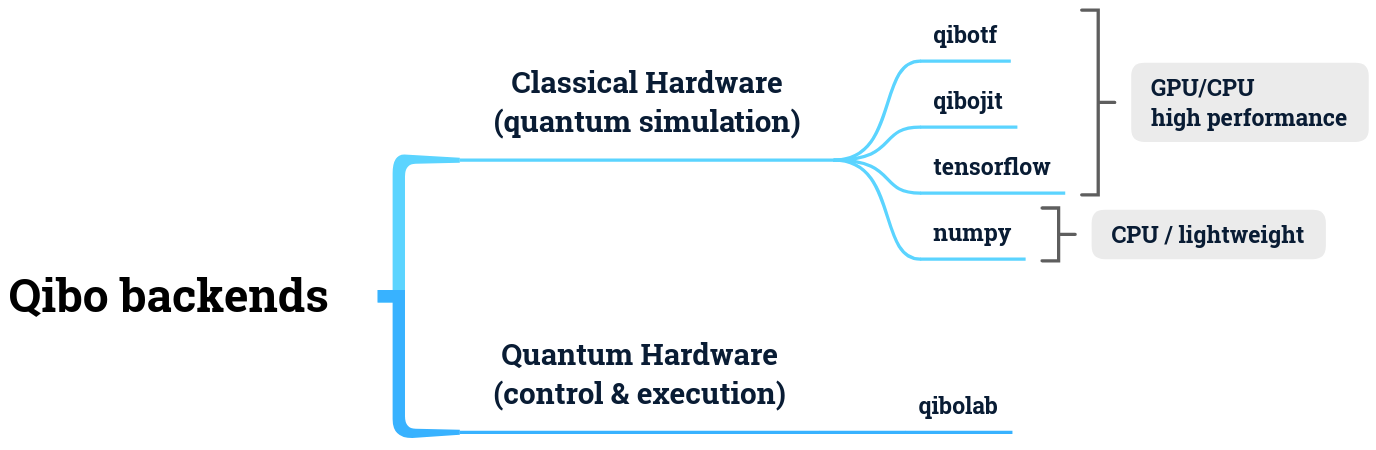
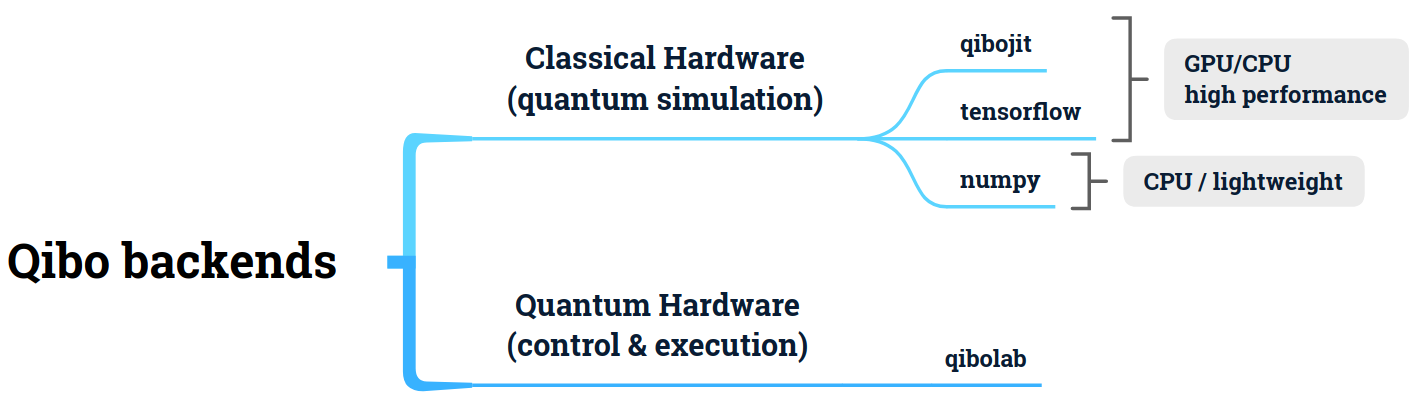
removing references to qibotf

diff --git a/src/qibo/backends/__init__.py b/src/qibo/backends/__init__.py
@@ -62,19 +62,18 @@ class Backend:
         # set default backend as active
         self.active_backend = self.construct_backend(default_backend)
 
-        # raise performance warning if qibojit and qibotf are not available
+        # raise performance warning if qibojit is not available
         self.show_config()
         if str(self) == "numpy":  # pragma: no cover
             log.warning("numpy backend uses `np.einsum` and supports CPU only. "
-                        "Consider installing the qibojit or qibotf backends for "
+                        "Consider installing the qibojit backend for "
                         "increased performance and to enable GPU acceleration.")
         elif str(self) == "tensorflow":  # pragma: no cover
             # case not tested because CI has tf installed
-            log.warning("qibotf library was not found. `tf.einsum` will be "
-                        "used to apply gates. In order to install Qibo's "
-                        "high performance custom operators for TensorFlow "
-                        "please use `pip install qibotf`. Alternatively, "
-                        "consider installing the qibojit backend.")
+            log.warning("tensorflow backend uses `tf.einsum` "
+                        "to apply gates. In order to install Qibo's "
+                        "high performance custom operators "
+                        "please use `pip install qibojit`.")
 
     @staticmethod
     def _get_backend_class(backend):
@@ -206,7 +205,6 @@ def set_backend(backend="qibojit", platform=None):
 
     The following backends are available:
     'qibojit': Numba/cupy backend with custom operators for applying gates,
-    'qibotf': Tensorflow backend with custom operators for applying gates,
     'tensorflow': Tensorflow backend that applies gates using ``tf.einsum``,
     'numpy': Numpy backend that applies gates using ``np.einsum``.
 

diff --git a/src/qibo/tests/conftest.py b/src/qibo/tests/conftest.py
@@ -32,7 +32,7 @@ def pytest_configure(config):
 
 def pytest_addoption(parser):
     parser.addoption("--backends", type=str, default=_BACKENDS,
-                     help="Calculation schemes (eg. qibojit, qibotf, tensorflow, numpy etc.) to test.")
+                     help="Calculation schemes (eg. qibojit, tensorflow, numpy etc.) to test.")
     parser.addoption("--accelerators", type=str, default=_ACCELERATORS,
                      help="Accelerator configurations for testing the distributed circuit.")
     # see `_ACCELERATORS` for the string format of the `--accelerators` flag
@@ -65,7 +65,7 @@ def pytest_generate_tests(metafunc):
 
     Test functions may have one or more of the following arguments:
         engine: Backend library (eg. numpy, tensorflow, etc.),
-        backend: Calculation backend (eg. qibojit, qibotf, tensorflow, numpy),
+        backend: Calculation backend (eg. qibojit, tensorflow, numpy),
         accelerators: Dictionary with the accelerator configuration for
             distributed circuits, for example: {'/GPU:0': 1, '/GPU:1': 1},
         tested_backend: The first backend when testing agreement between
@@ -110,7 +110,7 @@ def pytest_generate_tests(metafunc):
         "qibo.tests.test_core_distcircuit_execution"
     }
     module_name = metafunc.module.__name__
-    # skip distributed tests if qibojit or qibotf are not installed
+    # skip distributed tests if qibojit are not installed
     if module_name in distributed_tests and not distributed_backends:  # pragma: no cover
         pytest.skip("Skipping distributed tests because are not supported by "
                     "the available backends.")

diff --git a/src/qibo/tests/test_backends_agreement.py b/src/qibo/tests/test_backends_agreement.py
@@ -103,7 +103,7 @@ def test_backend_stack(tested_backend, target_backend):
 
 @pytest.mark.parametrize("sparse_type", [None, "coo", "csr", "csc", "dia"])
 def test_backend_eigh(tested_backend, target_backend, sparse_type):
-    if tested_backend in ("qibotf", "tensorflow") and sparse_type is not None:
+    if tested_backend == "tensorflow" and sparse_type is not None:
         pytest.skip("Temporary skip.")
     tested_backend = K.construct_backend(tested_backend)
     target_backend = K.construct_backend(target_backend)
@@ -122,7 +122,7 @@ def test_backend_eigh(tested_backend, target_backend, sparse_type):
 
 @pytest.mark.parametrize("sparse_type", ["coo", "csr", "csc", "dia"])
 def test_backend_sparse_eigh(tested_backend, target_backend, sparse_type):
-    if tested_backend in ("qibotf", "tensorflow"):
+    if tested_backend == "tensorflow":
         pytest.skip("Temporary skip.")
     tested_backend = K.construct_backend(tested_backend)
     target_backend = K.construct_backend(target_backend)
@@ -194,9 +194,6 @@ def test_backend_unique(tested_backend, target_backend, return_counts):
 def test_backend_transpose_state(tested_backend, target_backend):
     tested_backend = K.construct_backend(tested_backend)
     target_backend = K.construct_backend(target_backend)
-    if ((tested_backend.name == "qibotf" or target_backend.name == "qibotf") and
-        ("GPU" in tested_backend.default_device or "GPU" in target_backend.default_device)): # pragma: no cover
-        pytest.skip("qibotf does not implement `transpose_state` for GPU.")
     nqubits = 5
     order = [0, 2, 3, 4, 1]
     shape = (2 ** nqubits,)

diff --git a/src/qibo/tests/test_core_fusion.py b/src/qibo/tests/test_core_fusion.py
@@ -76,12 +76,7 @@ def test_fuse_circuit_three_qubit_gate(backend, max_qubits):
     c.add(gates.CNOT(0, 1))
     c.add(gates.CZ(2, 3))
     fused_c = c.fuse(max_qubits=max_qubits)
-    if K.name == "qibotf" and max_qubits > 2:
-        # qibotf does not support multi-qubit kernel
-        with pytest.raises(NotImplementedError):
-            _ = fused_c()
-    else:
-        K.assert_allclose(fused_c(), c(), atol=1e-12)
+    K.assert_allclose(fused_c(), c(), atol=1e-12)
 
 
 @pytest.mark.parametrize("nqubits", [4, 5, 10, 11])
@@ -101,10 +96,7 @@ def test_variational_layer_fusion(backend, nqubits, nlayers, max_qubits):
         c.add(gates.CZ(0, nqubits - 1))
 
     fused_c = c.fuse(max_qubits=max_qubits)
-    if K.name == "qibotf" and max_qubits > 2:
-        pytest.skip("qibotf does not support multi-qubit kernel")
-    else:
-        K.assert_allclose(fused_c(), c())
+    K.assert_allclose(fused_c(), c())
 
 
 @pytest.mark.parametrize("nqubits", [4, 5])
@@ -126,10 +118,7 @@ def test_random_circuit_fusion(backend, nqubits, ngates, max_qubits):
             q0, q1 = np.random.randint(0, nqubits, (2,))
         c.add(gate(q0, q1))
     fused_c = c.fuse(max_qubits=max_qubits)
-    if K.name == "qibotf" and max_qubits > 2:
-        pytest.skip("qibotf does not support multi-qubit kernel")
-    else:
-        K.assert_allclose(fused_c(), c(), atol=1e-7)
+    K.assert_allclose(fused_c(), c(), atol=1e-7)
 
 
 def test_controlled_by_gates_fusion(backend):

diff --git a/src/qibo/abstractions/callbacks.py b/src/qibo/abstractions/callbacks.py
@@ -104,14 +104,14 @@ class State(Callback):
 
     Warning: Keeping many copies of states in memory requires a lot of memory
     for circuits with many qubits.
-    
+
     Args:
-        copy (bool): If ``True`` the state vector or density matrix is 
+        copy (bool): If ``True`` the state vector or density matrix is
             copied in memory. Otherwise a reference to the existing array
-            is stored in the callback. 
-            The callback will not work as expected if ``copy=False`` 
-            is used with a backend that performs in-place updates, 
-            such as qibojit or qibotf.
+            is stored in the callback.
+            The callback will not work as expected if ``copy=False``
+            is used with a backend that performs in-place updates,
+            such as qibojit.
             Default is True
     """
 
@@ -189,7 +189,7 @@ class Gap(Callback):
             Default is ``True``.
 
     Example:
-        
+
         .. testcode::
 
             from qibo import callbacks, hamiltonians

diff --git a/src/qibo/tests/test_core_hamiltonians_trotter.py b/src/qibo/tests/test_core_hamiltonians_trotter.py
@@ -118,15 +118,11 @@ def test_trotter_hamiltonian_three_qubit_term(backend):
     dt = 1e-2
     initial_state = random_state(4)
     circuit = ham.circuit(dt=dt)
-    if K.name == "qibotf":
-        with pytest.raises(NotImplementedError):
-            final_state = circuit(np.copy(initial_state))
-    else:
-        final_state = circuit(np.copy(initial_state))
-        u = [expm(-0.5j * dt * (mm1 + mm3)), expm(-0.5j * dt * mm2)]
-        target_state = u[1].dot(u[0].dot(initial_state))
-        target_state = u[0].dot(u[1].dot(target_state))
-        K.assert_allclose(final_state, target_state)
+    final_state = circuit(np.copy(initial_state))
+    u = [expm(-0.5j * dt * (mm1 + mm3)), expm(-0.5j * dt * mm2)]
+    target_state = u[1].dot(u[0].dot(initial_state))
+    target_state = u[0].dot(u[1].dot(target_state))
+    K.assert_allclose(final_state, target_state)
 
 
 def test_old_trotter_hamiltonian_errors():

diff --git a/src/qibo/tests/test_core_gates.py b/src/qibo/tests/test_core_gates.py
@@ -364,13 +364,9 @@ def test_unitary_multiqubit(backend):
     matrix = matrix @ np.kron(cnot, cnot)
     matrix = matrix @ np.kron(np.kron(h, h), np.kron(h, h))
     unitary = gates.Unitary(matrix, 0, 1, 2, 3)
-    if K.name == "qibotf":
-        with pytest.raises(NotImplementedError):
-            final_state = apply_gates([unitary], nqubits=4)
-    else:
-        final_state = apply_gates([unitary], nqubits=4)
-        target_state = apply_gates(gatelist, nqubits=4)
-        K.assert_allclose(final_state, target_state)
+    final_state = apply_gates([unitary], nqubits=4)
+    target_state = apply_gates(gatelist, nqubits=4)
+    K.assert_allclose(final_state, target_state)
 
 
 @pytest.mark.parametrize("nqubits", [5, 6])

diff --git a/src/qibo/tests/test_core_gates_density_matrix.py b/src/qibo/tests/test_core_gates_density_matrix.py
@@ -131,13 +131,9 @@ def test_unitary_gate(backend, nqubits):
     from qibo import K
     gate = gates.Unitary(matrix, *range(nqubits))
     gate.density_matrix = True
-    if K.name == "qibotf" and nqubits > 2:
-        with pytest.raises(NotImplementedError):
-            final_rho = gate(np.copy(initial_rho))
-    else:
-        final_rho = gate(np.copy(initial_rho))
-        target_rho = np.einsum("ab,bc,cd->ad", matrix, initial_rho, matrix.conj().T)
-        K.assert_allclose(final_rho, target_rho)
+    final_rho = gate(np.copy(initial_rho))
+    target_rho = np.einsum("ab,bc,cd->ad", matrix, initial_rho, matrix.conj().T)
+    K.assert_allclose(final_rho, target_rho)
 
 
 def test_cu1gate_application_twoqubit(backend):

diff --git a/src/qibo/parallel.py b/src/qibo/parallel.py
@@ -84,7 +84,6 @@ def parallel_execution(circuit, states, processes=None):  # pragma: no cover
 
             import qibo
             original_backend = qibo.get_backend()
-            qibo.set_backend("qibotf")
             from qibo import models, set_threads
             from qibo.parallel import parallel_execution
             import numpy as np
@@ -136,7 +135,6 @@ def parallel_parametrized_execution(circuit, parameters, initial_state=None, pro
 
             import qibo
             original_backend = qibo.get_backend()
-            qibo.set_backend("qibotf")
             from qibo import models, gates, set_threads
             from qibo.parallel import parallel_parametrized_execution
             import numpy as np

diff --git a/src/qibo/tests/test_core_hamiltonians.py b/src/qibo/tests/test_core_hamiltonians.py
@@ -7,7 +7,7 @@ from qibo.tests.utils import random_complex
 
 
 def random_sparse_matrix(n, sparse_type=None):
-    if K.name in ("qibotf", "tensorflow"):
+    if K.name == "tensorflow":
         nonzero = int(0.1 * n * n)
         indices = np.random.randint(0, n, size=(nonzero, 2))
         data = np.random.random(nonzero) + 1j * np.random.random(nonzero)
@@ -140,7 +140,7 @@ def test_hamiltonian_matmul(backend, sparse_type):
 
     m1 = K.to_numpy(H1.matrix)
     m2 = K.to_numpy(H2.matrix)
-    if K.name in ("qibotf", "tensorflow") and sparse_type is not None:
+    if K.name == "tensorflow" and sparse_type is not None:
         with pytest.raises(NotImplementedError):
             _ = H1 @ H2
     else:

diff --git a/src/qibo/tests/test_core_circuit_parametrized.py b/src/qibo/tests/test_core_circuit_parametrized.py
@@ -226,7 +226,7 @@ def test_set_parameters_with_gate_fusion(backend, trainable):
 def test_variable_theta(backend):
     """Check that parametrized gates accept `tf.Variable` parameters."""
     backend = qibo.get_backend()
-    if backend != "tensorflow" and backend != "qibotf":
+    if backend != "tensorflow":
         pytest.skip("Numpy backends do not support variable parameters.")
     theta1 = K.optimization.Variable(0.1234, dtype=K.dtypes('DTYPE'))
     theta2 = K.optimization.Variable(0.4321, dtype=K.dtypes('DTYPE'))

diff --git a/src/qibo/tests/test_core_callbacks.py b/src/qibo/tests/test_core_callbacks.py
@@ -275,10 +275,10 @@ def test_state_callback(backend, density_matrix, copy):
     c.add(gates.H(1))
     c.add(gates.CallbackGate(statec))
     final_state = c()
-    
+
     target_state0 = np.array([1, 0, 1, 0]) / np.sqrt(2)
     target_state1 = np.ones(4) / 2.0
-    if not copy and K.name in ("qibojit", "qibotf"):
+    if not copy and K.name == "qibojit":
         # when copy is disabled in the callback and in-place updates are used
         target_state0 = target_state1
     if density_matrix:
